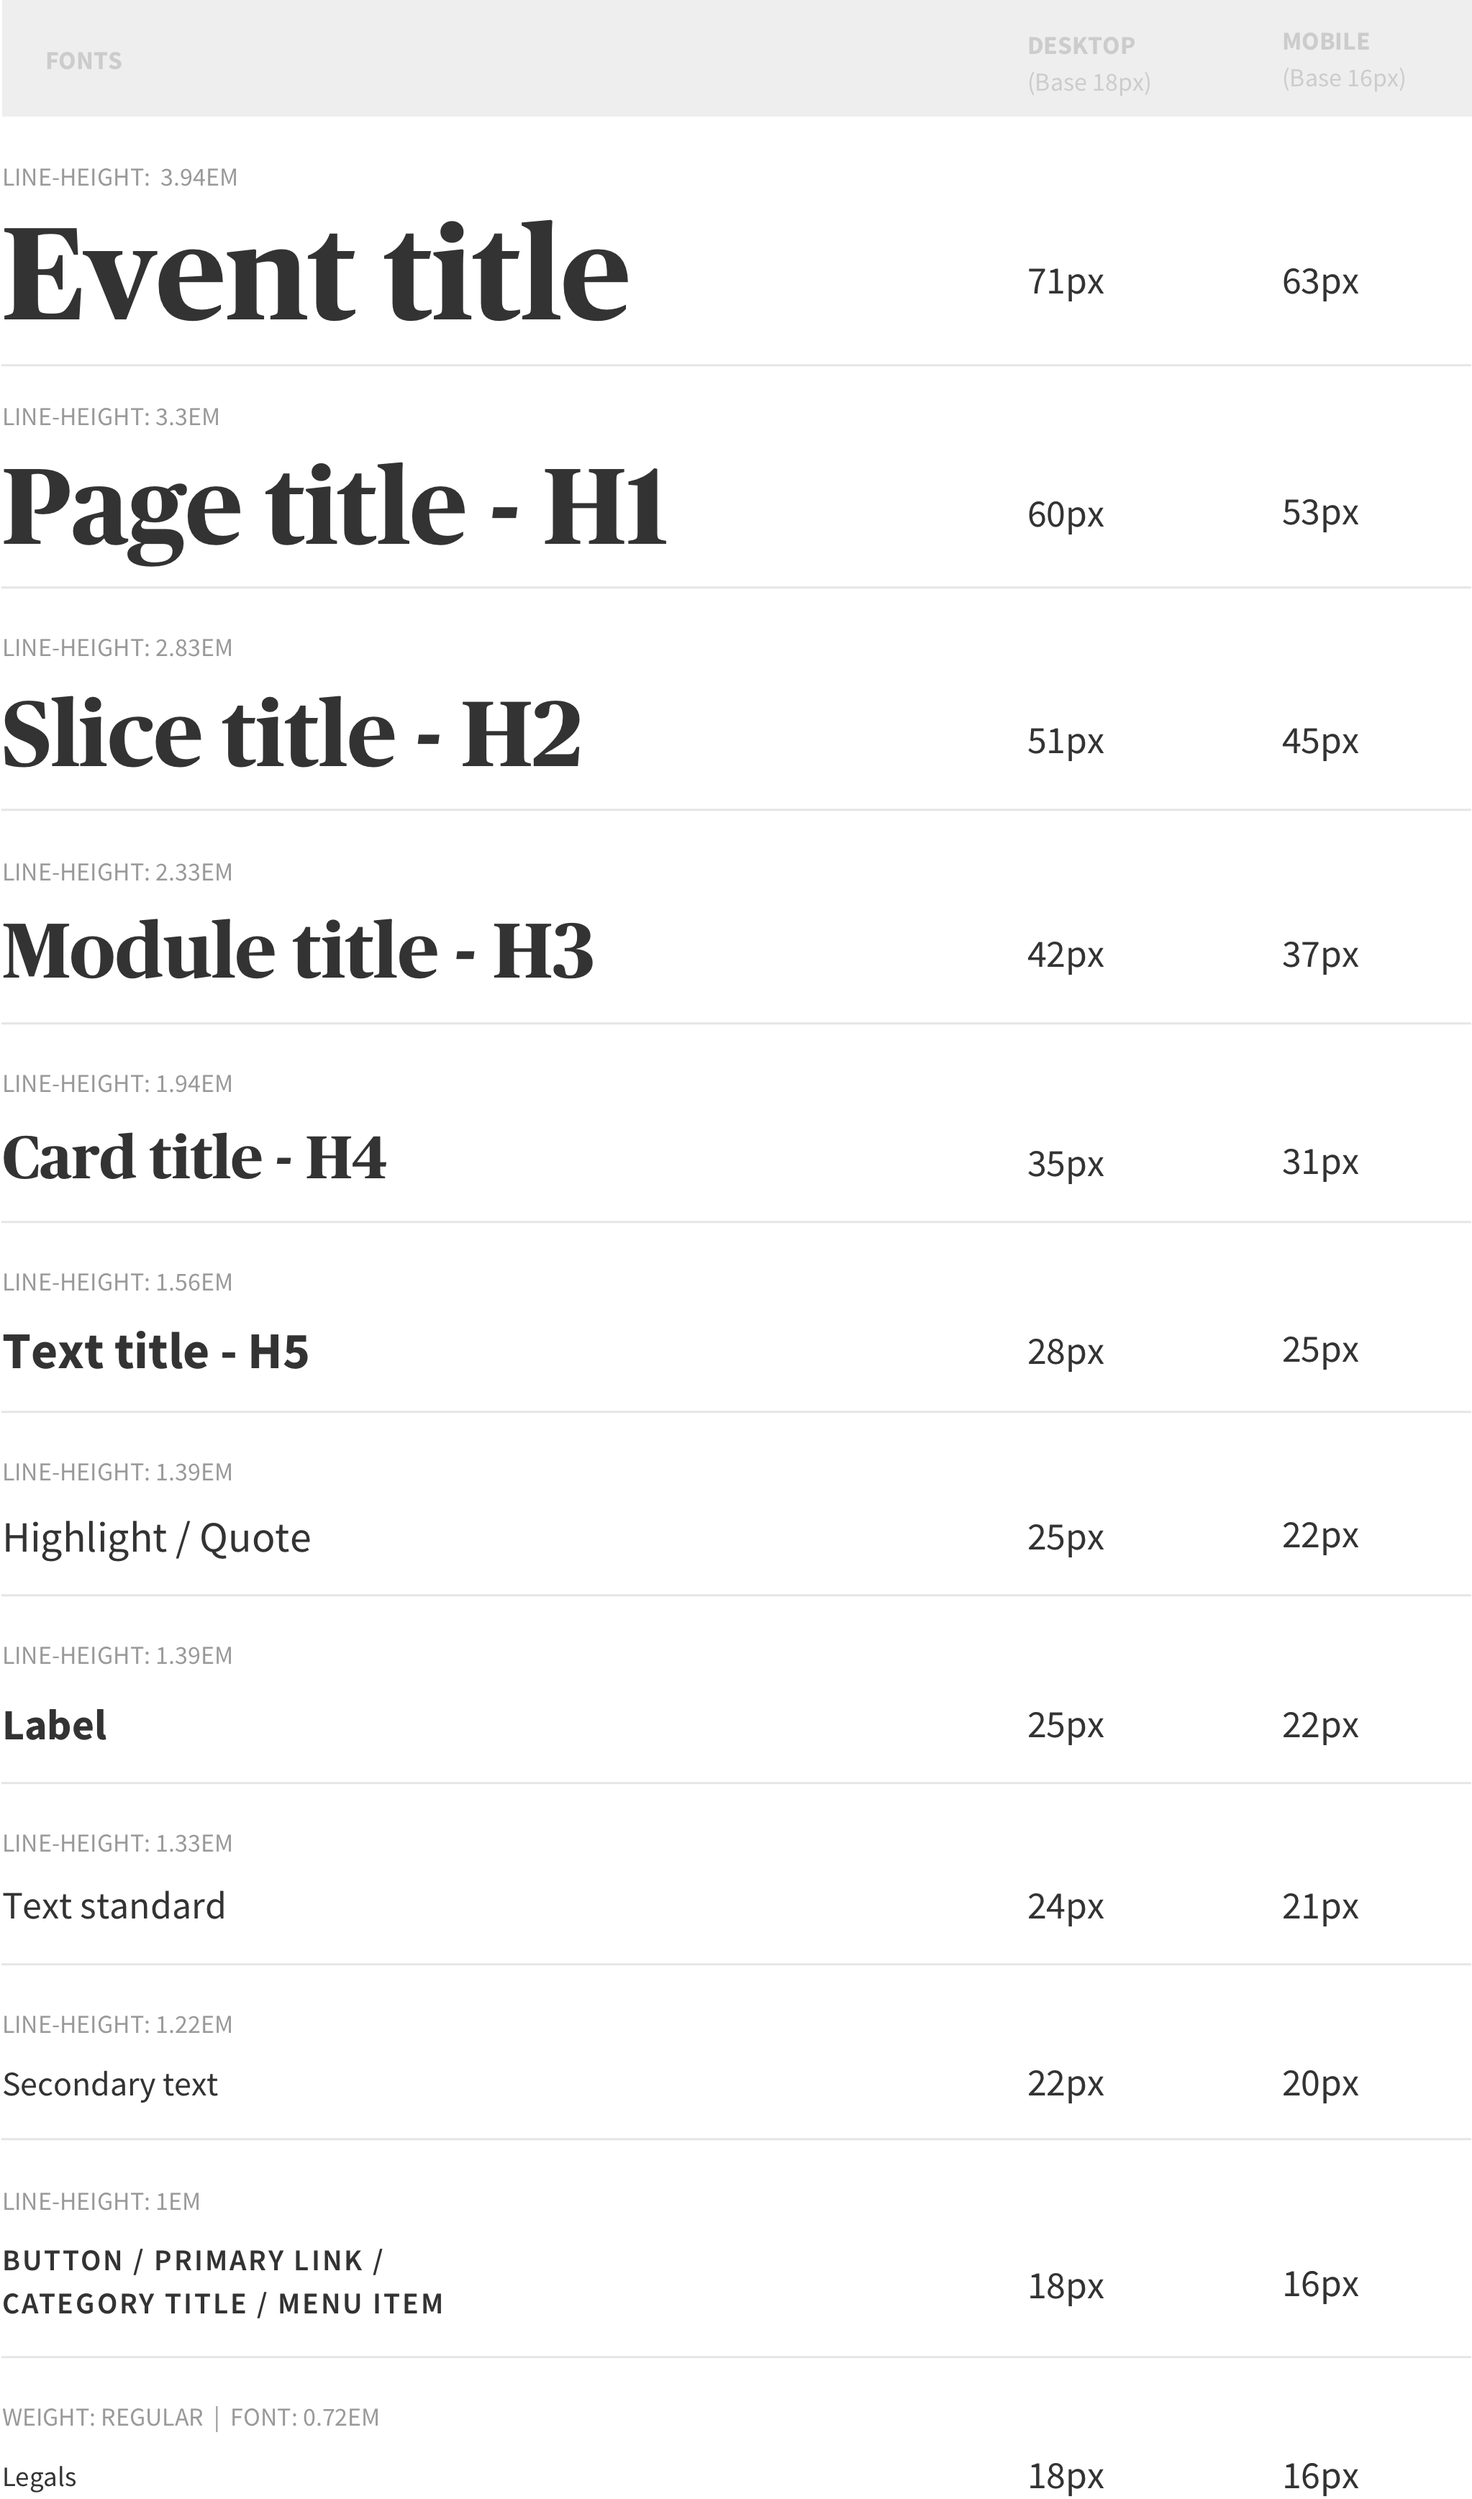
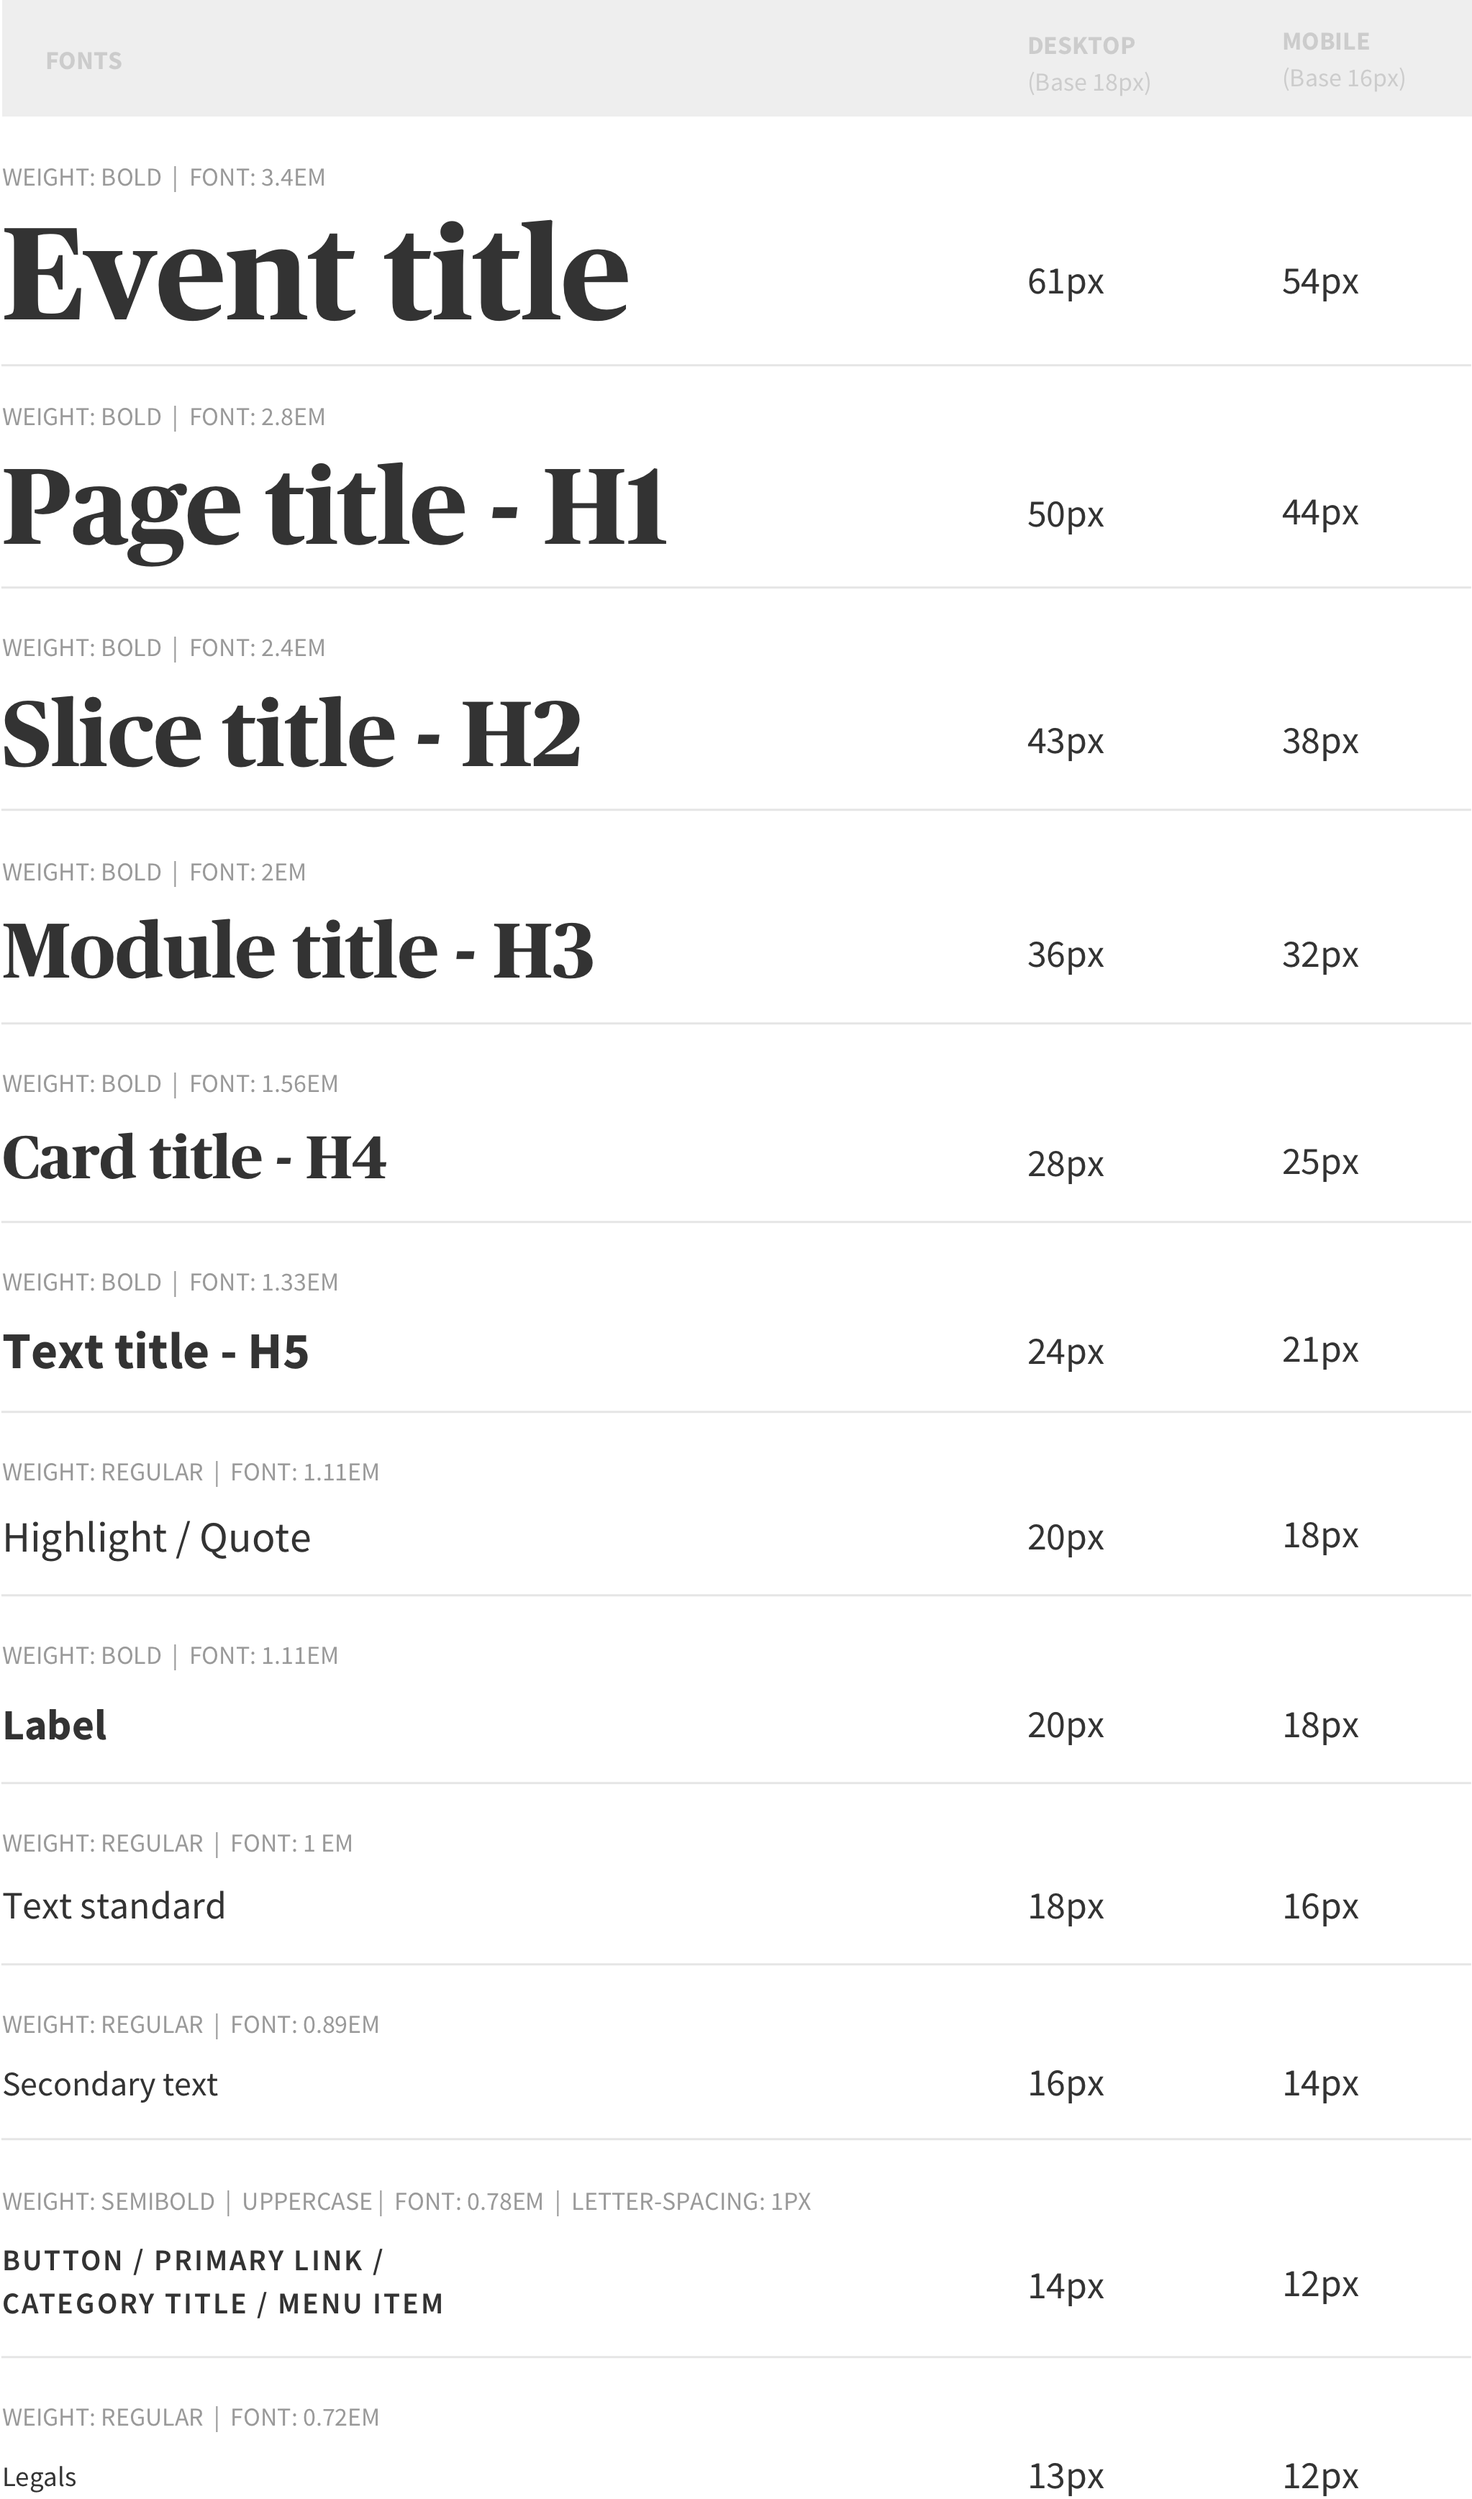
Fix H3 closes #42

diff --git a/docs/src/pages/typography.tsx b/docs/src/pages/typography.tsx
@@ -17,9 +17,7 @@ import Callout from '../components/Callout';
 
 import { fontDownloadUrl } from '../../siteConfig';
 
-interface Props {}
-
-export default function TypographyPage({}: Props): ReactElement {
+export default function TypographyPage(): ReactElement {
   return (
     <Layout withCallToAction withInfoBar>
       <SEO title="Typography" />
@@ -36,7 +34,7 @@ export default function TypographyPage({}: Props): ReactElement {
           Publico Headline typeface.
         </p>
 
-        <h3 className="h3">Publico Headline</h3>
+        <h3 className="h5">Publico Headline</h3>
         <p className="paragraph">
           Publico Headline is the first official serif typeface at AXA. Coupled
           with Source Sans Pro it enhances the design by adding rythm, creating
@@ -54,7 +52,7 @@ export default function TypographyPage({}: Props): ReactElement {
           </div>
         </div>
 
-        <h3 className="h3">Source Sans Pro</h3>
+        <h3 className="h5">Source Sans Pro</h3>
         <p className="paragraph">
           Source Sans Pro is a sans serif typeface that has been chosen to
           transition from ITC Franklin Gothic and Metric as it works pretty well
@@ -94,7 +92,7 @@ export default function TypographyPage({}: Props): ReactElement {
 
       <Container background="bg-neutral-200">
         <h2 className="h2 mt-0">Get the typefaces</h2>
-        <h3 className="h3">Publico headline</h3>
+        <h3 className="h5">Publico headline</h3>
         <p className="paragraph">
           Publico Headline is a typeface, which is not available for free.
           Currently at AXA, each entity needs to purchase it directly on the
@@ -110,7 +108,7 @@ export default function TypographyPage({}: Props): ReactElement {
           linkToUrl={fontDownloadUrl.heading}
         ></Callout>
 
-        <h3 className="h3">Source Sans Pro</h3>
+        <h3 className="h5">Source Sans Pro</h3>
         <Callout
           imageUrl={aaImage}
           title="Get Source Sans Pro typeface"

diff --git a/docs/src/css/content.css b/docs/src/css/content.css
@@ -17,7 +17,6 @@
   line-height: 1.7;
 }
 
-/* .Content p, */
 .paragraph {
   margin-top: var(--space-1);
   margin-bottom: var(--space-1);
@@ -31,35 +30,42 @@
 }
 
 .h1 {
+  font-family: var(--font-headings);
   font-size: var(--font-size-6xl);
   line-height: var(--line-height-6xl);
-  margin-bottom: 4px;
+  margin-bottom: var(--space-1);
 }
 
 .h2 {
+  font-family: var(--font-headings);
   font-size: var(--font-size-5xl);
   line-height: var(--line-height-5xl);
-  margin-bottom: 16px;
-  margin-top: 42px;
+  margin-top: var(--space-5);
+  margin-bottom: var(--space-2);
 }
 
-.Content h3,
 .h3 {
+  font-family: var(--font-headings);
   font-size: var(--font-size-4xl);
   line-height: var(--line-height-4xl);
   margin-top: var(--space-5);
   margin-bottom: var(--space-4);
 }
 
-.Content h4,
 .h4 {
-  font-size: 18px;
+  font-family: var(--font-headings);
+  font-size: var(--font-size-3xl);
+  line-height: --line-height-3xl;
+  margin-top: var(--space-5);
+  margin-bottom: var(--space-1);
+}
+
+.h5 {
+  font-size: var(--font-size-2xl);
+  line-height: var(--line-height-2xl);
   font-family: var(--font-ui);
-  font-weight: 500;
-  line-height: 22px;
-  letter-spacing: -0.05px;
-  margin-bottom: 4px;
-  margin-top: 32px;
+  margin-top: var(--space-3);
+  margin-bottom: var(--space-1);
 }
 
 .Content a,

diff --git a/docs/src/pages/grid.tsx b/docs/src/pages/grid.tsx
@@ -65,9 +65,13 @@ export default function GridPage({}: Props): ReactElement {
           we use “units” in order to restrict the number of spacing available.
         </p>
 
-        <div className="bg-neutral-200 flex mb-5">
+        <div className="bg-neutral-200 flex mt-5 mb-5">
           <div className="p-3" style={{ flexShrink: 2 }}>
-            <img src={spacingImage} className="Content-image" alt="Spacing" />
+            <img
+              src={spacingImage}
+              className="Content-image mt-0"
+              alt="Spacing"
+            />
           </div>
           <div className="p-3" style={{ flexShrink: 1 }}>
             spacing-3 (24px) on desktop, stays the same on tablet, we define

diff --git a/docs/src/pages/start.tsx b/docs/src/pages/start.tsx
@@ -72,7 +72,7 @@ export default function startPage() {
           prototype and production work.
         </p>
 
-        <h3 className="h3">Install and use components</h3>
+        <h3 className="h5">Install and use components</h3>
         <p className="paragraph">
           AXA Design System is made up of multiple web components and tools
           which you can import one by one. All you need to do is install the{' '}

diff --git a/docs/src/css/typography.css b/docs/src/css/typography.css
@@ -120,7 +120,6 @@
 .h5,
 .h6,
 .heading {
-  font-family: var(--font-headings);
   font-weight: var(--font-bold);
 }
 
